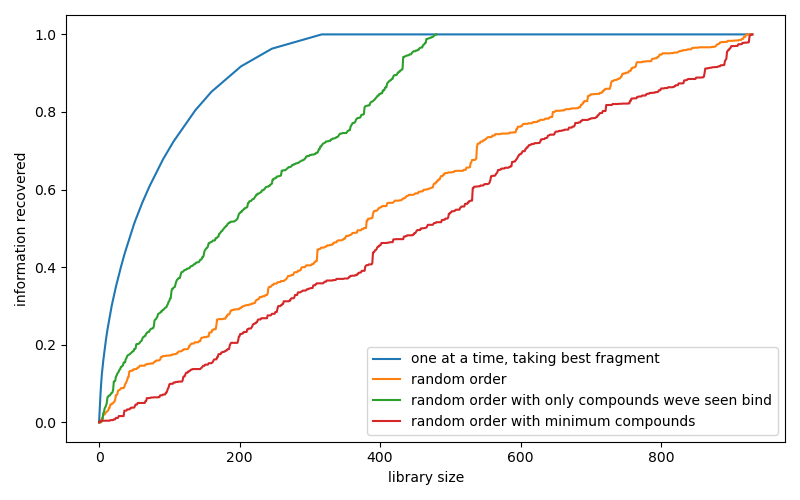
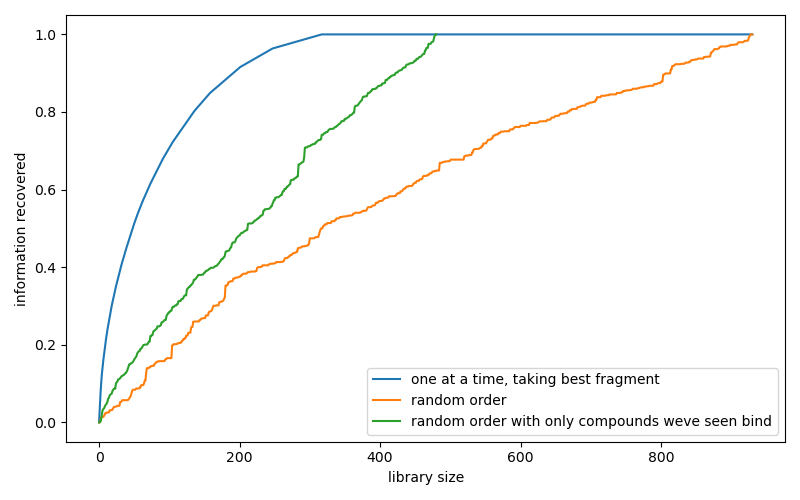
updated target-by-target test

diff --git a/scripts/test_rankings.py b/scripts/test_rankings.py
@@ -2,6 +2,8 @@ import os
 import json
 from rank_compounds import get_next_best_compound, get_all_smiles, rank
 import matplotlib.pyplot as plt
+import random
+
 
 def get_reduced_smiles_bits(smiles_bits, test_target):
     
@@ -12,6 +14,22 @@ def get_reduced_smiles_bits(smiles_bits, test_target):
             reduced[t] = smiles_bits[t]
     
     return reduced
+
+
+def get_fraction(comps, smiles_bits, target):
+    target_fraction = [0]
+    current_info = []
+
+    for comp in comps:
+
+        if comp in smiles_bits[test_target]:
+            current_info += smiles_bits[test_target][comp]
+
+        current_info = list(set(current_info))
+        target_fraction.append(len(current_info)/total_information)
+
+    return target_fraction
+
 
 
 
@@ -31,12 +49,15 @@ plt.figure(figsize=(12, 5))
 plt.subplot(121)
 
 fractions = []
+random_fractions = []
+comps_lists = []
 
 for test_target in smiles_bits:
 
     smiles_bits_reduced = get_reduced_smiles_bits(smiles_bits, test_target)
     all_smiles = get_all_smiles(smiles_bits_reduced)
-    comps, x = rank(smiles_bits_reduced, all_smiles, len(all_smiles))
+    comps, x = rank(smiles_bits_reduced, all_smiles, 250)
+    comps_lists += comps
 
 
     total_information = []
@@ -44,24 +65,22 @@ for test_target in smiles_bits:
         total_information += smiles_bits[test_target][c]
     total_information = len(set(total_information))
 
-    target_fraction = [0]
-    current_info = []
-
-    for comp in comps:
-
-        if comp in smiles_bits[test_target]:
-            current_info += smiles_bits[test_target][comp]
-
-        current_info = list(set(current_info))
-        target_fraction.append(len(current_info)/total_information)
-
+    target_fraction = get_fraction(comps, smiles_bits, test_target)
     fractions.append(target_fraction)
+
+    add_for_DSiP = 1007 - len(all_smiles)
+    all_smiles += ['C'] * add_for_DSiP
+    random.shuffle(all_smiles)
+    random_fraction = get_fraction(all_smiles[:250], smiles_bits, test_target)
+    random_fractions.append(random_fraction)
+
 
     print(test_target, len(comps), len(smiles_bits[test_target]), target_fraction[-1])
     plt.plot(range(len(target_fraction)), target_fraction, label=test_target)
 
     plt.xlabel('library size')
     plt.ylabel('information recovered')
+    plt.ylim(0,1)
     plt.tight_layout()
     plt.savefig('figures/fraction_test.png')
     
@@ -71,12 +90,46 @@ fraction_lengths = [len(i) for i in fractions]
 for i in range(min(fraction_lengths)):
     mean_fractions.append(sum([x[i] for x in fractions])/len(fractions))
 
+mean_random_fractions = []
+random_fraction_lengths = [len(i) for i in random_fractions]
+for i in range(min(random_fraction_lengths)):
+    mean_random_fractions.append(sum([x[i] for x in random_fractions])/len(random_fractions))
+
 
 plt.subplot(122)
-plt.plot(range(len(mean_fractions)), mean_fractions)
+plt.plot(range(len(mean_fractions)), mean_fractions, label='using ranked compounds')
+plt.plot(range(len(mean_random_fractions)), mean_random_fractions, label='picking random compounds')
 plt.ylim(0, 1)
+plt.legend()
 plt.xlabel('library size')
-plt.ylabel('information recovered')
+plt.ylabel('mean information recovered across all new targets')
 plt.tight_layout()
 plt.savefig('figures/fraction_test.png')
 
+
+all_smiles = get_all_smiles(smiles_bits)
+counts = [comps_lists.count(i) for i in all_smiles]
+plt.close()
+plt.figure(figsize=(8, 5))
+plt.bar(list(set(counts)), [counts.count(i) for i in set(counts)])
+plt.xlabel('number of times fragments in top 250')
+plt.tight_layout()
+plt.savefig('figures/compound_counts.png')
+
+
+improvement = []
+for i in range(len(fractions)):
+    try:
+        improvement.append((fractions[i][250]-random_fractions[i][250])/random_fractions[i][250])
+    except:
+        improvement.append(0)
+
+
+plt.close()
+plt.figure(figsize=(8, 5))
+plt.barh([t for t in smiles_bits], improvement)
+plt.xlabel('factor of information improvement in library size 250')
+plt.ylabel('target')
+plt.xlim(-2, 10)
+plt.tight_layout()
+plt.savefig('figures/improvement_by_target.png')

diff --git a/scripts/Interaction_Fingerprints.py b/scripts/Interaction_Fingerprints.py
@@ -1,5 +1,5 @@
 import os
-from oddt.fingerprints_new import InteractionFingerprint, tanimoto
+from oddt.fingerprints import InteractionFingerprint
 import oddt
 import sys 
 from pymol import cmd
@@ -18,17 +18,17 @@ def separate_files(filepath):
     cmd.reinitialize()
     cmd.load(filepath, 'complex')
     cmd.select('lig', 'resn LIG')
-    cmd.save('data/tmp/lig.pdb', 'lig')
+    cmd.save('lig.pdb', 'lig')
     cmd.extract('hets', 'complex and HETATM')
-    cmd.save('data/tmp/prot.pdb', 'complex')
+    cmd.save('prot.pdb', 'complex')
 
 
 def get_IFP():
 
     # uses the previously split protein and ligand files and caculates binary protein-ligand interaction fingerprint
 
-    lig = next(oddt.toolkit.readfile('pdb', 'data/tmp/lig.pdb'))
-    prot = next(oddt.toolkit.readfile('pdb', 'data/tmp/prot.pdb'))
+    lig = next(oddt.toolkit.readfile('pdb', 'lig.pdb'))
+    prot = next(oddt.toolkit.readfile('pdb', 'prot.pdb'))
 
     prot.protein = True
 
@@ -53,7 +53,7 @@ def get_DSiP_smiles():
     return DSiP_smiles
 
 
-def get_IFP_vectors(target):
+def get_IFP_vectors(input_data):
 
     # all IFPs for a particular target are calculated
 
@@ -61,21 +61,18 @@ def get_IFP_vectors(target):
     ifrags = []
     ivecs = []
 
-    for ligand in os.listdir(f'{DATA_DIR}/{target}'):
+    for ligand in os.listdir(input_data):
 
         try:
-            if len(xtal_smiles[ligand]) > 1:
-                xtal_smiles[ligand] = [min(xtal_smiles[ligand])]
-            if Chem.MolToSmiles(Chem.MolFromSmiles(xtal_smiles[ligand][0])) in DSiP_smiles:
-
-                separate_files(f'{DATA_DIR}/{target}/{ligand}')
-
-                IFP = get_IFP()
             
-                if list(IFP).count(0) < len(IFP):
-                    ismiles.append(xtal_smiles[ligand][0])
-                    ifrags.append(ligand)
-                    ivecs.append(IFP)
+            separate_files(os.path.join(input_data, ligand, 'refine.pdb'))
+
+            IFP = get_IFP()
+        
+            if list(IFP).count(0) < len(IFP):
+                ismiles.append(xtal_smiles[ligand][0])
+                ifrags.append(ligand)
+                ivecs.append(IFP)
 
         
         except:
@@ -131,34 +128,21 @@ def get_smiles_bits(vecs, smiles):
     return smiles_bits
 
 
-DATA_DIR = '/dls/science/users/tyt15771/DPhil/Lib_activity/data'
+INPUT_DATA = '/dls/labxchem/data/2020/sw27230-1/processing/analysis/model_building/'
 
-target_data = {}
-DSiP_smiles = get_DSiP_smiles()
-print('DSiP total compounds:', len(set(DSiP_smiles)))
+smiles_strings = open('test_file.csv', 'r').readlines()
+xtal_smiles = {}
+for line in smiles_strings[1:]:
+    xtal_smiles[line.split(',')[0]] = line.split(',')[1]
 
-xtal_smiles = json.load(open('data/datafiles/xtal_smiles.json', 'r'))
+ifrags, ivecs, ismiles = get_IFP_vectors(INPUT_DATA)
+vecs, frags, smiles, wrong = get_uniform_IFPs(ifrags, ivecs, ismiles)
 
+print('IFPs:', len(vecs))
+print('vectors of wrong length:', wrong)
 
-for target in os.listdir(DATA_DIR):
-# for target in ['70X']:
+smiles_bits = get_smiles_bits(vecs, smiles)
 
-    try:
-        print(target)
-
-        ifrags, ivecs, ismiles = get_IFP_vectors(target)
-        vecs, frags, smiles, wrong = get_uniform_IFPs(ifrags, ivecs, ismiles)
-
-        print('IFPs:', len(vecs))
-        print('vectors of wrong length:', wrong)
-
-        smiles_bits = get_smiles_bits(vecs, smiles)
-
-        print('structures:', len(vecs), ', unique smiles:', len(smiles_bits))
-        target_data[target] = smiles_bits
-        json.dump(target_data, open('data/datafiles/smiles_bits.json', 'w'))
-    
-    except:
-        print(target, 'error')
-        print(sys.exc_info()[1])
-
+print('structures:', len(vecs), ', unique smiles:', len(smiles_bits))
+target_data[target] = smiles_bits
+json.dump(target_data, open('data/datafiles/smiles_bits.json', 'w'))

diff --git a/scripts/rank_compounds.py b/scripts/rank_compounds.py
@@ -148,7 +148,7 @@ plt.figure(figsize=(8,5))
 plt.plot(range(len(DSiP_smiles)+1), fraction, label='one at a time, taking best fragment')
 plt.plot(range(len(DSiP_smiles)+1), random_full_fraction, label='random order')
 plt.plot(range(len(all_smiles)+1), random_smaller_fraction, label="random order with only compounds weve seen bind")
-plt.plot(range(len(comps)+1), does_order_matter, label='random order with minimum compounds')
+# plt.plot(range(len(comps)+1), does_order_matter, label='random order with only compounds weve seen bind')
 plt.legend()
 plt.xlabel('library size')
 plt.ylabel('information recovered')
